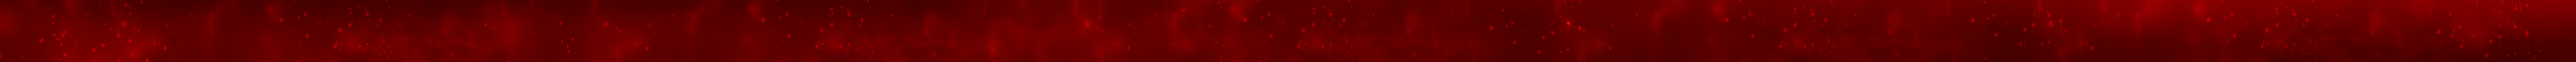
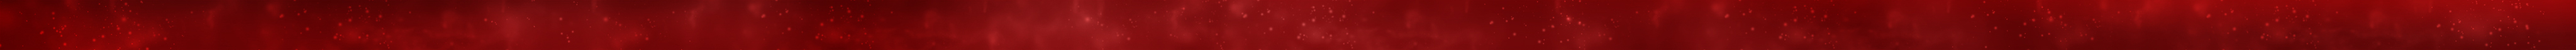
Update 2022-01-16T16:46:28.342Z

diff --git a/index.html b/index.html
@@ -19,7 +19,30 @@
   互惠社區購物網－首頁頂部 Banner
 </h1>
 
-<img src="https://github.com/DockorSherowLinZ/huhui_Banner/blob/master/app/assets/images/banner_bg_20220116.jpg?raw=true" alt="首頁頂部BN">
+<div style="background-image: url(https://raw.githubusercontent.com/DockorSherowLinZ/huhui_Banner/master/app/assets/images/banner_bg_20220116.jpg);" >
+</div>
+<p>
+  咚咚的首頁頂部 code
+  div style="
+    background-image : url(img class=" redactor-autoparser-object"=""
+    src="https://img.huhui2020.com.tw/UserFiles/7d0ad185825d8ec8c55bb3e3462aabbd.jpg">);width:100%;height:80PX;"&gt ;
+  
+    strong
+      div style="
+  color:WHITE; 
+  font-size:22px;
+  display: flex;
+  justify-content: center;
+  align-items: center;
+  padding-top: 25px; 
+  z-index:1;
+  ">  
+        聯盟行銷限定招募中（詳情點這裡）
+  
+      /div
+    /strong
+  /div
+</p>
 
 <div class="box">
 
